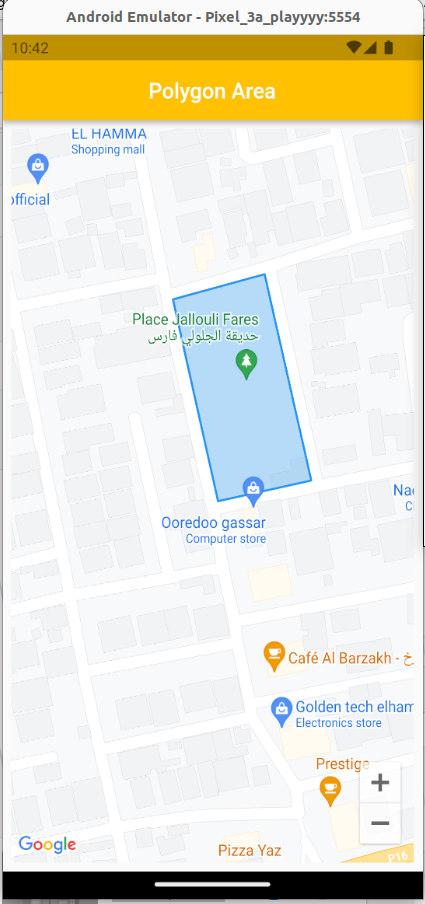
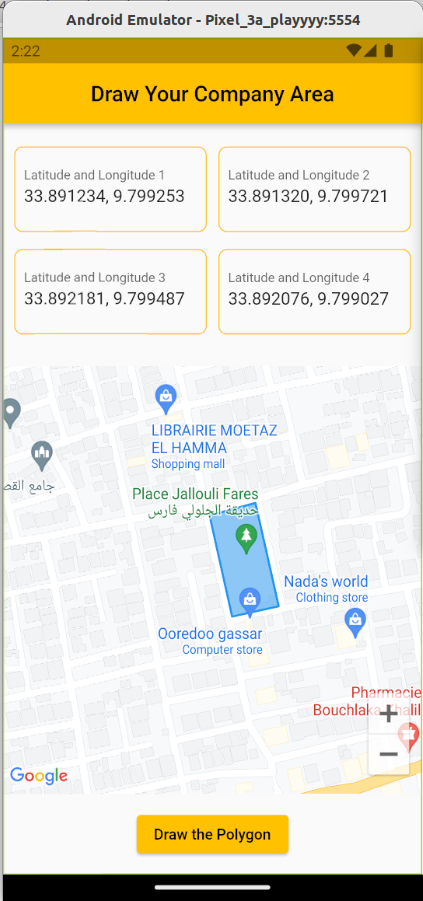
update the Home screen with 4 textfeilds so the user can input the LatLng of his area

Changed region(s): [[0.0, 0.0, 1.0, 1.0]]

diff --git a/google_maps_polygon_area/lib/home_screen.dart b/google_maps_polygon_area/lib/home_screen.dart
@@ -13,39 +13,33 @@ class HomePage extends StatefulWidget {
 class _HomePageState extends State<HomePage> {
   Completer<GoogleMapController> _controller = Completer();
 
-  static final CameraPosition _kGoogle = const CameraPosition(
-    target: LatLng(33.891234, 9.799253),
-    zoom: 14,
-  );
+  CameraPosition? _kGoogle;
 
   Set<Polygon> _polygon = HashSet<Polygon>();
 
-  List<LatLng> points = [
+  List<LatLng> points = [];
+  /*  List<LatLng> points = [
     LatLng(33.891234, 9.799253),
     LatLng(33.891320, 9.799721),
     LatLng(33.892181, 9.799487),
     LatLng(33.892076, 9.799027),
-  ];
+  ]; */
+
+  List<TextEditingController> controllers = [];
+
+  int numberOfPoints = 4;
 
   @override
   void initState() {
-    // TODO: implement initState
     super.initState();
-    //initialize polygon
-    _polygon.add(Polygon(
-      // given polygonId
-      polygonId: PolygonId('1'),
-      // initialize the list of points to display polygon
-      points: points,
-      // given color to polygon
-      fillColor: Colors.blue.withOpacity(0.5),
-      // given border color to polygon
-      strokeColor: Colors.blue,
-      // set stroke width
-      strokeWidth: 2,
-      geodesic: true,
-      // given width of border
-    ));
+    for (int i = 0; i < numberOfPoints; i++) {
+      controllers.add(TextEditingController());
+    }
+
+    _kGoogle = const CameraPosition(
+      target: LatLng(33.891234, 9.799253),
+      zoom: 14,
+    );
   }
 
   @override
@@ -53,34 +47,158 @@ class _HomePageState extends State<HomePage> {
     return Scaffold(
       appBar: AppBar(
         backgroundColor: Colors.amber,
-        // title of app
-        title: Text("Polygon Area"),
+        title: const Text("Draw Your Company Area"),
         centerTitle: true,
       ),
-      body: Padding(
-        padding: const EdgeInsets.all(8.0),
-        child: Container(
-          child: SafeArea(
-            child: GoogleMap(
-              //given camera position
-              initialCameraPosition: _kGoogle,
-              // on below line we have given map type
-              mapType: MapType.normal,
-              // on below line we have enabled location
-              myLocationEnabled: true,
-              myLocationButtonEnabled: true,
-              // on below line we have enabled compass location
-              compassEnabled: true,
-              // on below line we have added polygon
-              polygons: _polygon,
-              // displayed google map
-              onMapCreated: (GoogleMapController controller) {
-                _controller.complete(controller);
-              },
+      body: Column(
+        mainAxisAlignment: MainAxisAlignment.spaceEvenly,
+        children: [
+          SizedBox(
+            height: 200, // Set a fixed height for the text fields container
+            child: SingleChildScrollView(
+              child: Column(
+                children: [
+                  for (int i = 0; i < numberOfPoints; i += 2)
+                    Row(
+                      mainAxisAlignment: MainAxisAlignment.spaceEvenly,
+                      children: [
+                        const SizedBox(
+                          height: 0,
+                          width: 5,
+                        ),
+                        Container(
+                          width: 180,
+                          height: 80,
+                          decoration: BoxDecoration(
+                            border: Border.all(color: Colors.amber),
+                            borderRadius: BorderRadius.circular(8),
+                          ),
+                          child: Padding(
+                            padding: const EdgeInsets.all(8.0),
+                            child: TextField(
+                              keyboardType: TextInputType.number,
+                              controller: controllers[i],
+                              decoration: InputDecoration(
+                                labelText: 'Latitude and Longitude ${i + 1}',
+                                hintText:
+                                    'Enter in format "33.892181, 9.799487"',
+                                border: InputBorder.none,
+                              ),
+                              onChanged: (value) {
+                                if (i == 0) {
+                                  updateCameraPosition(value);
+                                }
+                              },
+                            ),
+                          ),
+                        ),
+                        //  const SizedBox(height: 0),
+                        if (i + 1 < numberOfPoints)
+                          Padding(
+                            padding: const EdgeInsets.all(8.0),
+                            child: Container(
+                              width: 180,
+                              height: 80, // Adjust the height as needed
+                              decoration: BoxDecoration(
+                                border: Border.all(color: Colors.amber),
+                                borderRadius: BorderRadius.circular(8),
+                              ),
+                              child: Padding(
+                                padding: const EdgeInsets.all(8.0),
+                                child: TextField(
+                                  keyboardType: TextInputType.number,
+                                  controller: controllers[i + 1],
+                                  decoration: InputDecoration(
+                                    labelText:
+                                        'Latitude and Longitude ${i + 2}',
+                                    hintText:
+                                        'Enter in format "33.892181, 9.799487"',
+                                    border: InputBorder.none,
+                                  ),
+                                  onChanged: (value) {
+                                    if (i == 0) {
+                                      updateCameraPosition(value);
+                                    }
+                                  },
+                                ),
+                              ),
+                            ),
+                          ),
+                      ],
+                    ),
+                ],
+              ),
             ),
           ),
-        ),
+          //SizedBox(height: 60),
+          Flexible(
+            flex: 8,
+            child: Container(
+              height: 400,
+              child: SafeArea(
+                child: GoogleMap(
+                  initialCameraPosition: _kGoogle!,
+                  mapType: MapType.normal,
+                  myLocationEnabled: true,
+                  myLocationButtonEnabled: true,
+                  compassEnabled: true,
+                  polygons: _polygon,
+                  onMapCreated: (GoogleMapController controller) {
+                    _controller.complete(controller);
+                  },
+                ),
+              ),
+            ),
+          ),
+
+          ElevatedButton(
+            onPressed: () {
+              updatePolygon();
+            },
+            child: const Text('Draw the Polygon'),
+          ),
+        ],
       ),
     );
+  }
+
+  void updateCameraPosition(String latLngString) {
+    List<String> latLng = latLngString.split(',');
+    if (latLng.length == 2) {
+      double lat = double.tryParse(latLng[0].trim()) ?? 33.891234;
+      double lng = double.tryParse(latLng[1].trim()) ?? 9.799253;
+      setState(() {
+        _kGoogle = CameraPosition(
+          target: LatLng(lat, lng),
+          zoom: 14,
+        );
+      });
+    }
+  }
+
+  void updatePolygon() {
+    List<LatLng> newPoints = [];
+    for (int i = 0; i < numberOfPoints; i++) {
+      String latLngString = controllers[i].text.trim();
+      List<String> latLng = latLngString.split(',');
+      if (latLng.length == 2) {
+        double lat = double.tryParse(latLng[0].trim()) ?? 0.0;
+        double lng = double.tryParse(latLng[1].trim()) ?? 0.0;
+        newPoints.add(LatLng(lat, lng));
+      }
+    }
+
+    setState(() {
+      points = newPoints;
+      _polygon.clear();
+      _polygon.add(Polygon(
+        polygonId: const PolygonId('1'),
+        points: points,
+        fillColor: Colors.blue.withOpacity(0.5),
+        strokeColor: Colors.blue,
+        strokeWidth: 2,
+        geodesic: true,
+      ));
+    });
   }
 }
